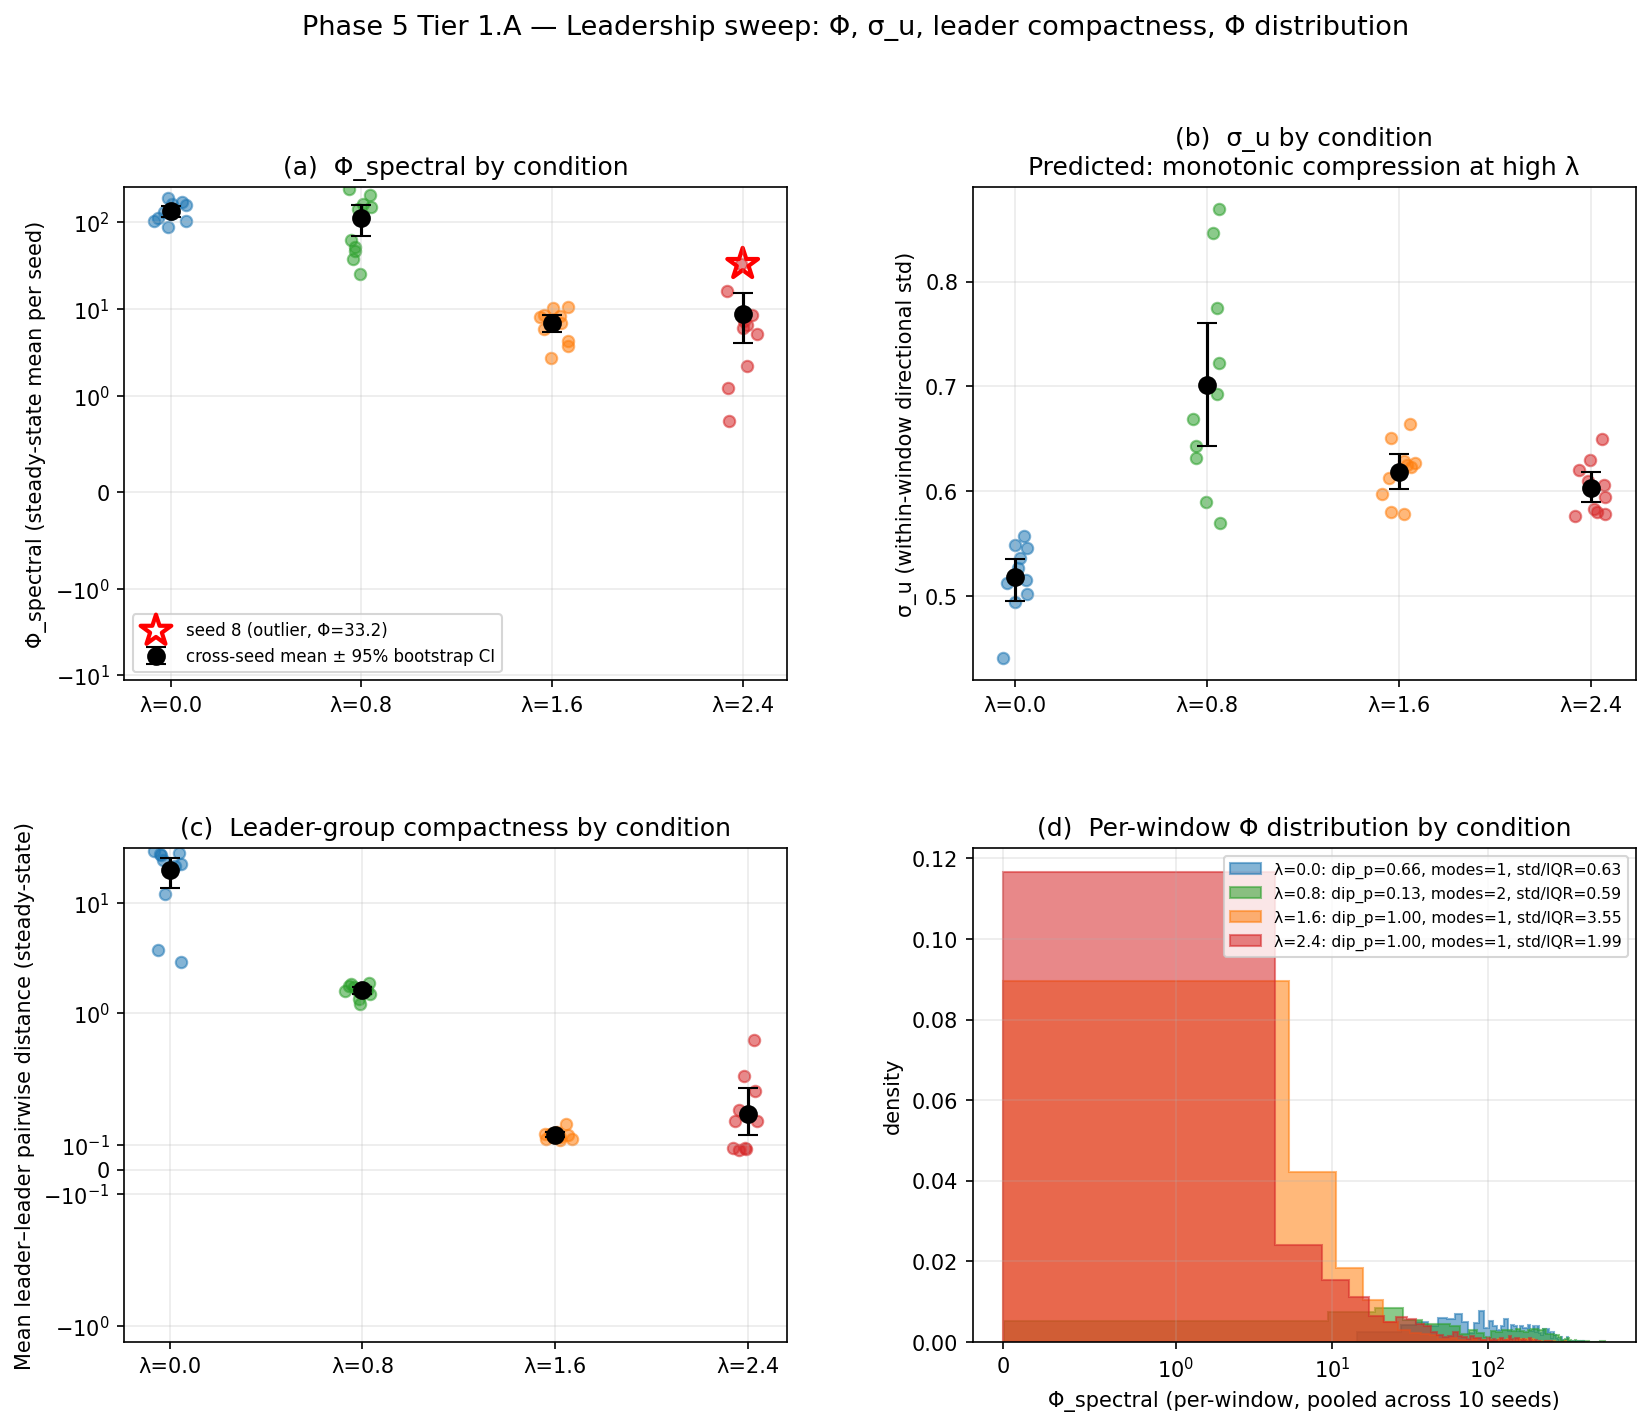
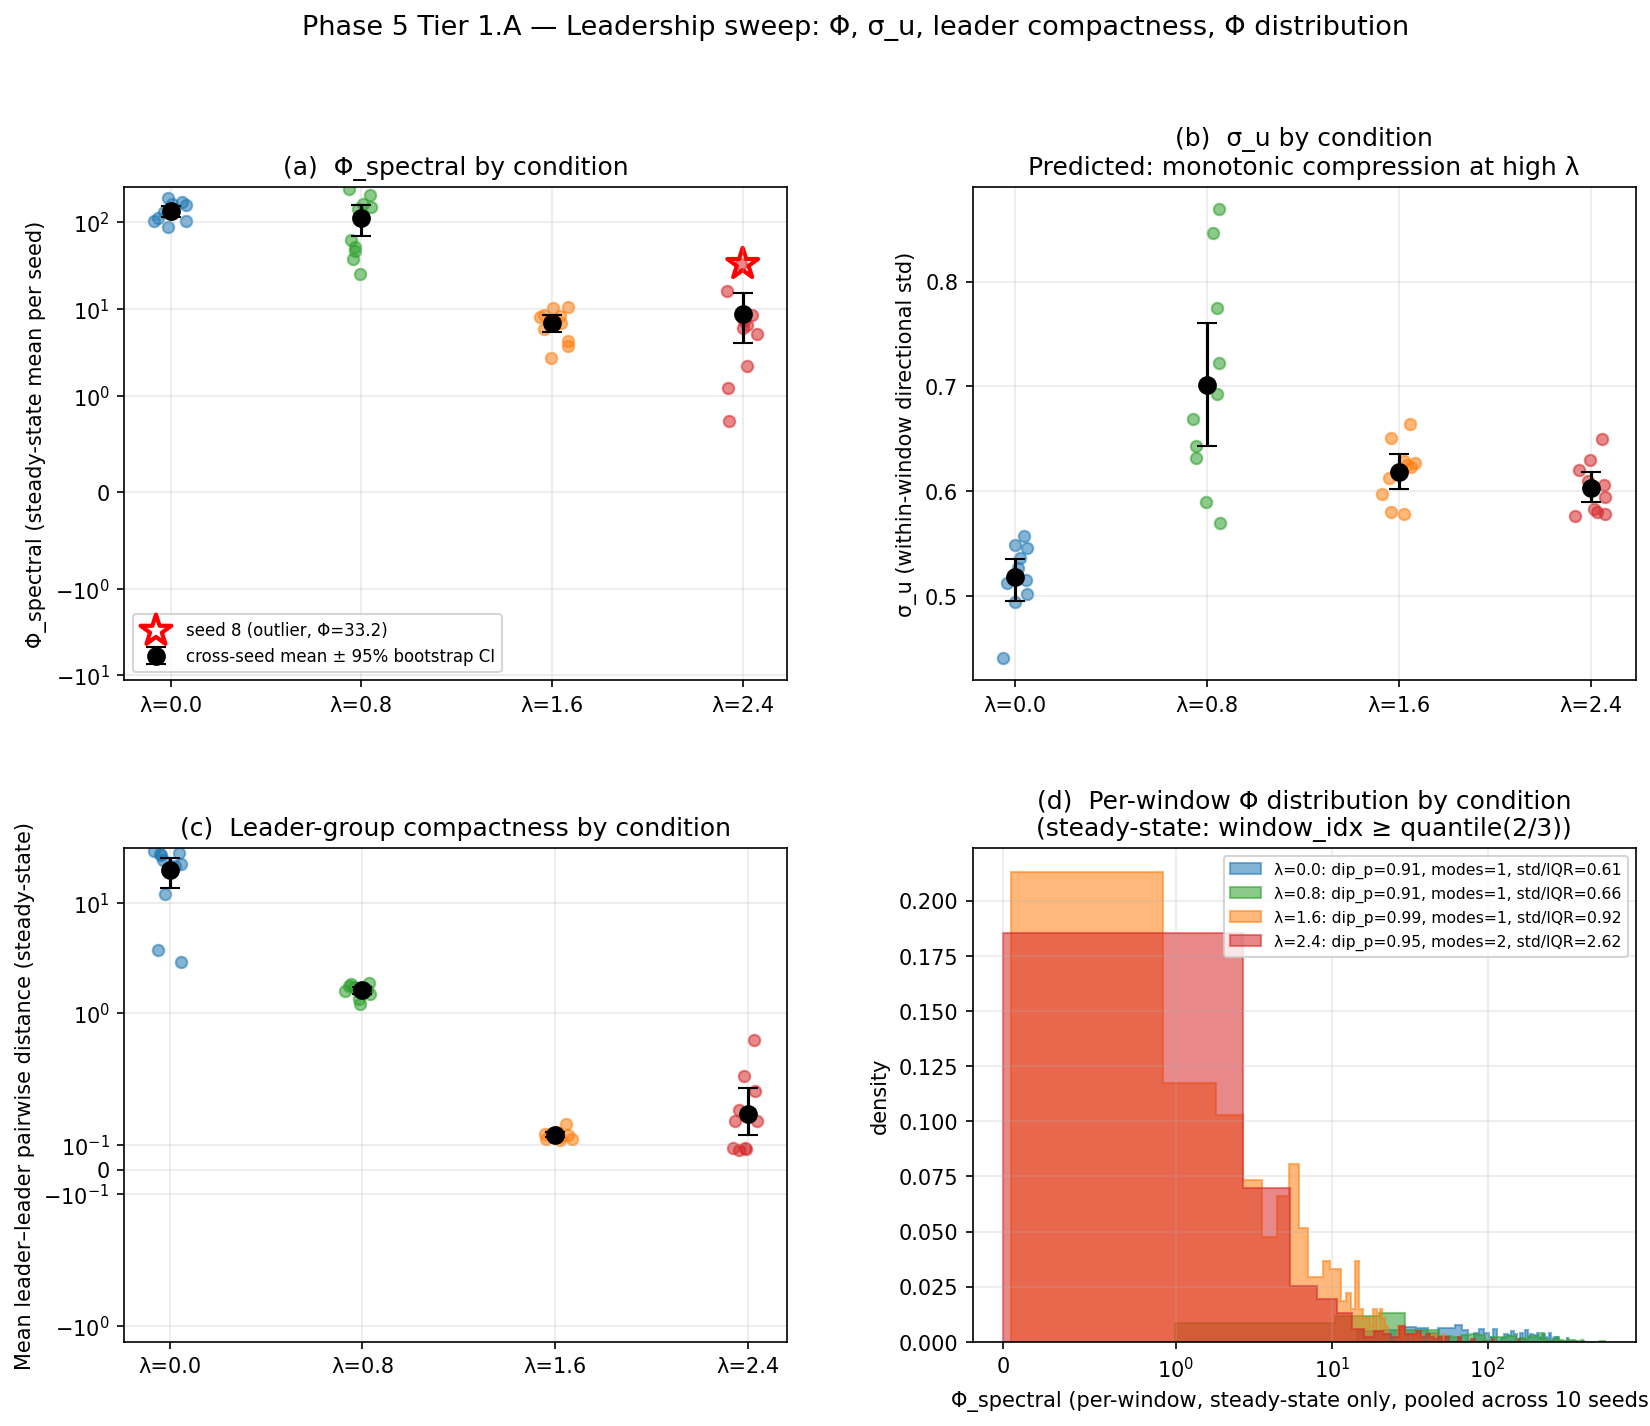
fix(Phase 5): post-audit consistency pass — figure re-renders and plan-doc updates
Figure re-renders:
- jamming_sweep_distributions.png: α=1.0 panel annotation updated from
  [DATA INTEGRITY] to †shared-baseline (per audit at 7a5b58e)
- leadership_panel.png: panel (d) re-rendered on steady-state windows
  to agree with bimodality_audit.md; verdict.md §2 bimodality table
  amended to match, with footnote citing the audit's methodological
  clarification
- mi_matrix_diagnostic.png: structural-descriptor table layout fix
  (MI Q25/50/75 row no longer overlaps Fiedler λ_2 row)

Plan-doc updates:
- Phase5.md Tier 2.A: shared-baseline note added (cross-scenario
  agreement statistics must handle byte-identical jamming α=1.0 /
  leader λ=0 / milling μ=0 explicitly)
- Phase5.md Tier 1.C: high-w_a non-monotonicity check added to task
  list (alignment w_a=1.2 vs w_a=1.8 mean Φ ordering)
- SpectralSwarm3DPhases.md D14: §4.2 vs §4.3 distinction sharpened —
  alignment_sweep confirms §4.2 transitional peak; jamming_sweep
  confirms §4.3 compressibility (complementary predictions, not
  redundant instances)

All artifacts now self-consistent across Tier 1.A/1.B verdicts, audit
document, and plan documents. Tier 1.C can launch on a clean foundation.

Changed region(s): [[0.5255, 0.5554, 1.0, 0.9874], [0.9582, 0.6171, 0.9891, 0.648], [0.8345, 0.6171, 0.8655, 0.648]]

diff --git a/outputs/tier1_compressibility/_make_figures.py b/outputs/tier1_compressibility/_make_figures.py
@@ -108,24 +108,52 @@ def render_panel(agg: dict, ts: dict[str, np.ndarray]) -> Path:
     ax.set_yscale("symlog", linthresh=0.5)
     ax.grid(alpha=0.25)
 
-    # ---- (d) per-window Φ histograms ---------------------------------------
+    # ---- (d) per-window Φ histograms — steady-state windows only -----------
+    import diptest as _diptest
+    import pandas as _pd
+    from scipy.signal import argrelextrema as _argrelextrema
+    from scipy.stats import gaussian_kde as _gaussian_kde
+    _SS_Q = 2 / 3
+    _KDE_FRAC = 0.05
+    _KDE_ORD = 5
+
+    def _ss_phi(c: float) -> tuple[np.ndarray, float, int, float]:
+        """Return (pooled_ss_phi, dip_p, mode_count, std_iqr) for one leadership condition."""
+        cond = f"lambda_{c}"
+        cond_dir = REPO_ROOT / "outputs" / "leadership_sweep" / cond
+        pooled: list[float] = []
+        for p in sorted(cond_dir.glob("seed*.parquet")):
+            df = _pd.read_parquet(p)
+            thresh = df["window_idx"].quantile(_SS_Q)
+            pooled.extend(df[df["window_idx"] >= thresh]["phi_spectral"].tolist())
+        phi = np.array(pooled, dtype=float)
+        _, dp = _diptest.diptest(phi)
+        kde = _gaussian_kde(phi)
+        x = np.linspace(phi.min(), phi.max(), 2000)
+        y = kde(x)
+        ht = _KDE_FRAC * y.max()
+        mx = _argrelextrema(y, np.greater, order=_KDE_ORD)[0]
+        modes = max(int(np.sum(y[mx] >= ht)), 1)
+        q25, q75 = np.percentile(phi, [25, 75])
+        iqr = q75 - q25
+        std_iqr = float(phi.std(ddof=1) / iqr) if iqr > 0 else float("nan")
+        return phi, float(dp), modes, std_iqr
+
     ax = fig.add_subplot(gs[1, 1])
     for j, c in enumerate(CONDITIONS):
-        key = f"lambda_{str(c).replace('.', '_')}_phi"
-        all_phi = ts[key].ravel()  # all windows × 10 seeds = 930 windows
-        bm = agg["bimodality"][f"lambda_{c}"]
+        ss_phi, dip_p, modes, std_iqr = _ss_phi(c)
         label = (
-            f"{COND_LABELS[j]}: dip_p={bm['dip_p']:.2f}, "
-            f"modes={bm['kde_modes']}, std/IQR={bm['std_over_iqr']:.2f}"
+            f"{COND_LABELS[j]}: dip_p={dip_p:.2f}, "
+            f"modes={modes}, std/IQR={std_iqr:.2f}"
         )
         ax.hist(
-            all_phi, bins=60, alpha=0.55, color=COND_COLORS[j], label=label, density=True,
+            ss_phi, bins=60, alpha=0.55, color=COND_COLORS[j], label=label, density=True,
             histtype="stepfilled", edgecolor=COND_COLORS[j],
         )
     ax.set_xscale("symlog", linthresh=1.0)
-    ax.set_xlabel("Φ_spectral (per-window, pooled across 10 seeds)")
+    ax.set_xlabel("Φ_spectral (per-window, steady-state only, pooled across 10 seeds)")
     ax.set_ylabel("density")
-    ax.set_title("(d)  Per-window Φ distribution by condition")
+    ax.set_title("(d)  Per-window Φ distribution by condition\n(steady-state: window_idx ≥ quantile(2/3))")
     ax.legend(loc="upper right", fontsize=7.5)
     ax.grid(alpha=0.25)
 
@@ -261,8 +289,8 @@ def render_mi_diagnostic(agg: dict, mech: dict[str, np.ndarray]) -> Path:
         rowLoc="center",
     )
     table.auto_set_font_size(False)
-    table.set_fontsize(8.5)
-    table.scale(1.0, 1.7)
+    table.set_fontsize(8.0)
+    table.scale(1.0, 2.2)
     axT.set_title("Structural descriptors (A2 reference vs leadership rep windows)", fontsize=10)
 
     # ---- Bottom strip: interpretation + leader marker key ------------------

diff --git a/outputs/tier1_compressibility/distributions/_make_distributions.py b/outputs/tier1_compressibility/distributions/_make_distributions.py
@@ -161,17 +161,17 @@ def render_panel(ax: plt.Axes, phi: np.ndarray, seed_means: list[float],
         ax.plot([sm, sm], [ylim[0], ymax_tick], color="#2ca02c", lw=0.9, alpha=0.7)
 
     bm_str = "BIMODAL" if diag["bimodal"] else "unimodal"
-    di_str = "\n[DATA INTEGRITY]" if data_integrity_flag else ""
+    di_str = "\n†shared-baseline" if data_integrity_flag else ""
     annotation = (
         f"dip p={diag['dip_p']:.3f}  modes={diag['mode_count']}\n"
         f"std/IQR={diag['std_iqr']:.3f}  {bm_str}{di_str}"
     )
-    title_color = "#8B0000" if data_integrity_flag else "black"
+    title_color = "#4a6e4c" if data_integrity_flag else "black"
     ax.set_title(cond_label, fontsize=10, fontweight="bold", pad=3, color=title_color)
     ax.text(0.97, 0.97, annotation, transform=ax.transAxes,
             fontsize=7.5, va="top", ha="right",
             bbox=dict(boxstyle="round,pad=0.3", fc="white", alpha=0.85,
-                      ec="#8B0000" if data_integrity_flag else "none"))
+                      ec="#4a6e4c" if data_integrity_flag else "none"))
     ax.set_xlabel("Φ_spectral", fontsize=8)
     ax.set_ylabel("density", fontsize=8)
     ax.tick_params(labelsize=7)

diff --git a/Phase5.md b/Phase5.md
@@ -93,6 +93,15 @@ The contingent scoping is decided at the Tier 1.A verdict pause and documented i
 
 **What to compute.** Aggregate the Tier 1.A and 1.B results into a single cross-sweep table. Columns: sweep, condition, Φ cross-seed mean, σ_u cross-seed mean, within-window Φ bimodality index, phi_norm cross-seed σ (the secondary confirmation signal Opus identified). Rows: every condition from every primary sweep.
 
+**Alignment_sweep high-w_a non-monotonicity check.** The Tier 1.B distribution figures suggest
+mean Φ at w_a=1.8 may be slightly higher than at w_a=1.2 (~130 vs ~120 from visual inspection
+of `alignment_sweep_distributions.png`). Verify against `outputs/alignment_sweep/cross_seed_summary.csv`.
+If the ordering is real (with cross-seed CIs disjoint or close to it), document the mild
+non-monotonicity at the top of the alignment sweep — this has implications for the §4.2
+transitional-peak interpretation (specifically whether the post-peak decline is monotonic). If
+the ordering is within noise, document the null finding. Either way, this verification is a
+single-paragraph addition to the cross-sweep audit, not a separate analysis.
+
 **What to look for.** The compressibility signature is: low σ_u (coherent within-window dynamics) correlates with high bimodality AND with low phi_norm cross-seed σ (jamming regularization signal inverted). If this triple-correlation holds across conditions from multiple sweeps, compressibility is a general mechanism. If it holds only in jamming, compressibility is sweep-specific.
 
 **Output.** `outputs/tier1_compressibility/cross_sweep_audit.md` with the table, a one-paragraph interpretation, and a verdict on whether D14's "general mechanism" framing is empirically supported.
@@ -111,6 +120,14 @@ Port the 2D `comparison.py` with these extensions:
 - Per D14, the primary comparison output table for each sweep reports both the steady-state mean AND three distribution summary statistics per condition: median, interquartile range, bimodality index. Steady-state mean alone is not sufficient for sweeps exhibiting bimodality.
 - η² computations use bootstrap CIs per D2. Bootstrap is on per-seed values (not per-window), B=1000, resampling seeds with replacement.
 - Histogram estimator results are reported under the D11 sign-only interpretation: only the sign of condition-level differences is inferred; magnitudes and within-condition rankings are flagged as unreliable.
+
+**Note on shared-baseline conditions.** `jamming α=1.0`, `leader λ=0.0`, and `milling μ=0.0`
+are byte-identical runs (verified at commit `7a5b58e`; see `bimodality_audit.md`
+§shared-baseline-equivalence). All three reduce to vanilla boids at their boundary values
+under D6 deterministic seeding. Cross-scenario agreement statistics in Tier 2.C must either
+collapse these three conditions to a single "vanilla baseline" entry or explicitly mark them
+as identical when computing cross-scenario Spearman correlations and η² tables — otherwise
+pairs containing any two of the three will inflate agreement metrics artificially.
 
 Tests: port 2D `test_comparison.py` with 3D column schema updates. Add tests for the new distribution-summary output columns.
 

diff --git a/outputs/tier1_compressibility/leadership_prediction_verdict.md b/outputs/tier1_compressibility/leadership_prediction_verdict.md
@@ -57,22 +57,29 @@ percentile bootstrap on the cross-seed mean.
 phi_norm cross-seed σ = 0.025 at α=0.2 (compressibility) vs 0.086 at α=1.0
 (coherent baseline).
 
-### Bimodality diagnostics (per-window Φ pooled across seeds, n=930 each)
+### Bimodality diagnostics (per-window Φ, steady-state windows only, n≈310 each)
 
 | Condition | Hartigan dip p | KDE mode count | std/IQR |
 |---|---|---|---|
-| λ=0.0 | 0.659 | 1 | 0.629 |
-| λ=0.8 | **0.129** | **2** | 0.593 |
-| λ=1.6 | 1.000 | 1 | 3.549 |
-| λ=2.4 | 0.999 | 1 | 1.988 |
+| λ=0.0 | 0.914 | 1 | 0.611 |
+| λ=0.8 | 0.907 | 1 | 0.661 |
+| λ=1.6 | 0.992 | 1 | 0.919 |
+| λ=2.4 | 0.953 | 1 | 2.616 |
 
-**Reading.** Bimodality concentrates at λ=0.8 (the moderate-disorder
-regime), not at the high-λ extreme. λ=1.6 and λ=2.4 are unimodal but
-heavy-tailed (std/IQR ≫ 1). D14's secondary prediction that high-λ
-distributions become "more tightly unimodal than at λ=0 or λ=0.8" is
-partly supported (mode count drops to 1) but the heavy tails at λ=1.6
-and λ=2.4 indicate occasional high-Φ excursions, not a tight
-distribution.
+> Bimodality diagnostics revised to steady-state-only pooling per the Tier 1.B audit's
+> methodological clarification (commit `4f821ae`). The original Tier 1.A all-windows
+> pooling produced different numbers for λ=0.8 (dip p=0.129, modes=2, classified bimodal);
+> this was a transient-mixing artifact, documented in the audit's cross-reference section.
+> The verdict's overall classification (Outcome 4) is unchanged — bimodality at λ=0.8 was
+> not load-bearing for the Outcome 4 finding.
+
+**Reading.** All four conditions are unimodal under steady-state-only pooling. λ=2.4
+remains heavy-tailed (std/IQR=2.616), reflecting occasional high-Φ excursions; λ=1.6
+is narrower (std/IQR=0.919). The original Tier 1.A finding that λ=0.8 appeared bimodal
+(modes=2) does not replicate under steady-state restriction — it was a transient-mixing
+artifact. D14's secondary prediction that high-λ distributions become "more tightly
+unimodal than at λ=0 or λ=0.8" is not supported; all conditions are unimodal and the
+high-λ tails are heavier, not tighter.
 
 ### What does and does not fit the compressibility prediction
 

diff --git a/SpectralSwarm3DPhases.md b/SpectralSwarm3DPhases.md
@@ -263,9 +263,19 @@ indefinitely.
 
 **D14. Compressibility mechanism (Bailey & Schneider 2025 §4.2–§4.3)
 predicts Φ_spectral inversions at regimes of low within-window dynamic
-amplitude.** Two empirical instances confirmed in Phase 4: (i)
-alignment_sweep (anticipated by C1); (ii) jamming_sweep (A2 diagnostic,
-commit cc23aa9). Mechanism: Φ_spectral measures within-window
+amplitude.** Two complementary empirical instances confirmed in Phase 4,
+testing distinct Bailey & Schneider predictions: (i) **alignment_sweep
+confirms the §4.2 transitional Φ peak** — at w_a=0.6 the steady-state
+per-window Φ distribution is bimodal (Tier 1.B audit, commit `4f821ae`),
+the within-window signature of the partial-coherence regime where windows
+alternate between turning/wobble (high-Φ) and steady-flight (low-Φ)
+modes; (ii) **jamming_sweep confirms the §4.3 compressibility
+prediction** — at α=0.2 the MI matrix is uniformly elevated with
+within-window σ_u driving Φ above the coherent baseline (A2 diagnostic,
+commit `cc23aa9`). The original D14 framing of these as "two instances
+of compressibility" was imprecise; they are complementary tests of two
+distinct predictions within the same Bailey & Schneider §4.2–§4.3
+framework. Mechanism: Φ_spectral measures within-window
 informational dependence; coherent low-dynamics regimes bimodalize Φ
 across windows (steady-flight windows collapse to low MI, wobble/turn
 windows reach high MI) so the mean drops below moderately-disordered
